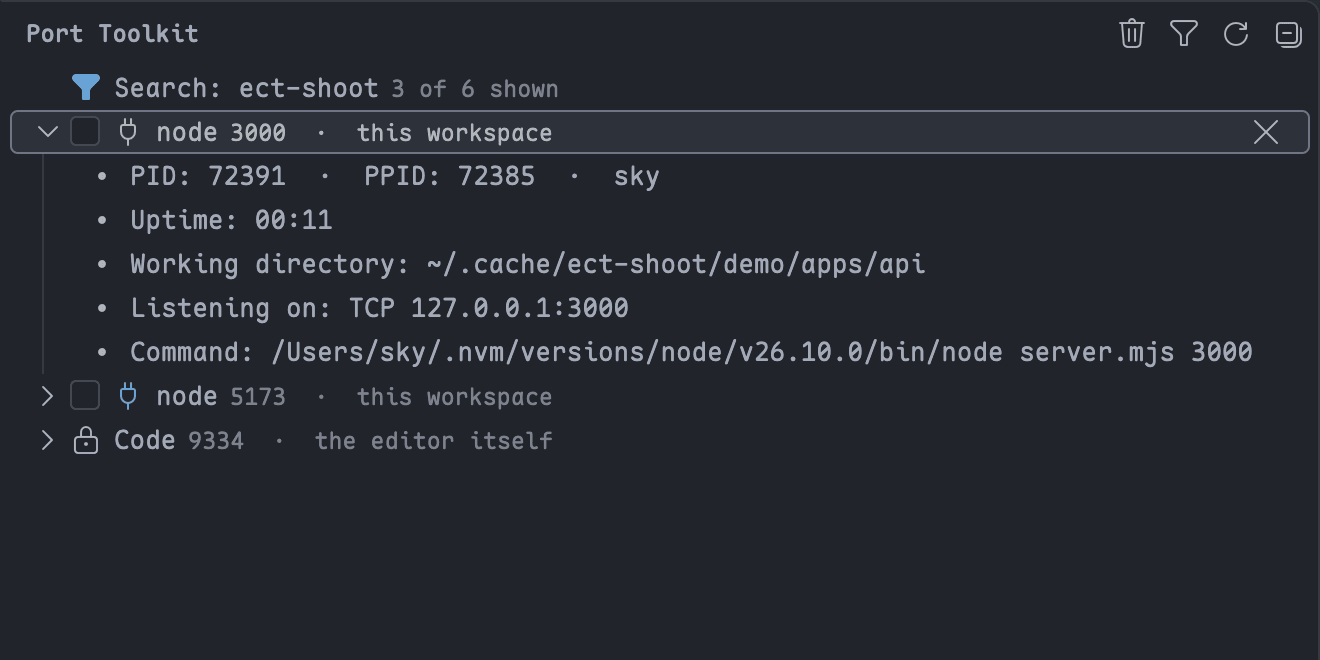
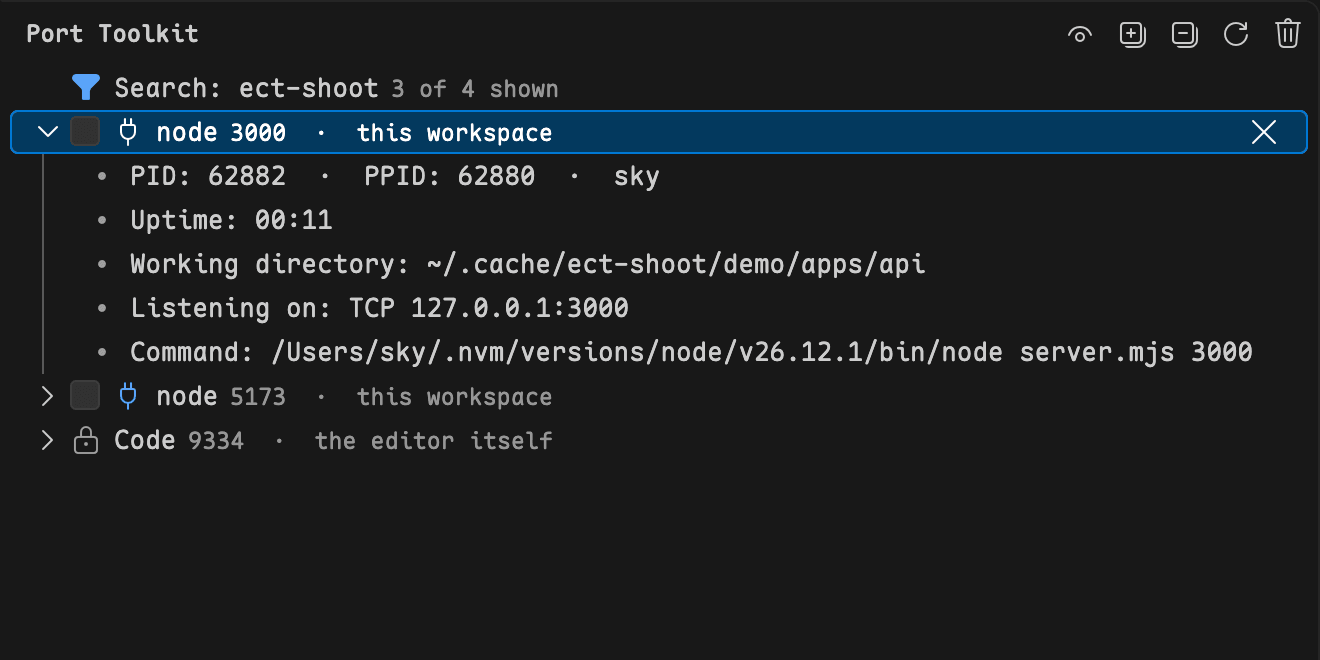
docs: 端口文档示意图与截图更新为新的标题栏按钮; 截图脚本改为拖动分隔条加宽侧栏

diff --git a/docs/ports.md b/docs/ports.md
@@ -9,7 +9,7 @@ This page shows how to find the process that holds a local port, tell it apart f
 Click the Port Toolkit icon in the Activity Bar. The view lists every process listening on a local port, **one row per process, not one row per port**, so the number of rows you tick is always the number of processes that get terminated. The sketch below shows the layout; the real view draws VS Code's own icons in place of these symbols.
 
 ```text
-PORT TOOLKIT                                  🗑  ⧩  ⟳
+PORT TOOLKIT                            👁  ⊞  ⊟  ⟳  🗑
   🔍 Search                for example 3000, node, ~/repo
   ☑ node                5173, 24678  ·  this workspace
       PID: 41802  ·  PPID: 41799  ·  sky
@@ -45,7 +45,7 @@ Click the search row at the top and type; the list narrows after a short pause. 
 - While a filter is active, the search row shows the term and a match count, with a clear button next to it.
 
 ```text
-PORT TOOLKIT                                  🗑  ⧩  ⟳
+PORT TOOLKIT                            👁  ⊞  ⊟  ⟳  🗑
   🔍 Search: 3000                       2 of 7 shown  ✕
   ☑ node                3000  ·  this workspace
   ☐ java                30001

diff --git a/zh/docs/ports.md b/zh/docs/ports.md
@@ -9,7 +9,7 @@
 点开活动栏里的端口工具箱图标。视图列出所有在本机端口上监听的进程，**每个进程一行，而不是每个端口一行**，所以勾选几行就恰好终止几个进程。下面是布局示意，实际界面用的是 VS Code 自带图标，不是这些符号。
 
 ```text
-端口工具箱                                    🗑  ⧩  ⟳
+端口工具箱                              👁  ⊞  ⊟  ⟳  🗑
   🔍 搜索                  例如 3000, node, ~/repo
   ☑ node                5173, 24678  ·  本工作区
       PID: 41802  ·  PPID: 41799  ·  sky
@@ -45,7 +45,7 @@
 - 过滤生效时，搜索行显示关键词和匹配数量，旁边有一个清除按钮。
 
 ```text
-端口工具箱                                    🗑  ⧩  ⟳
+端口工具箱                              👁  ⊞  ⊟  ⟳  🗑
   🔍 搜索: 3000                已显示 7 项中的 2 项  ✕
   ☑ node                3000  ·  本工作区
   ☐ java                30001
